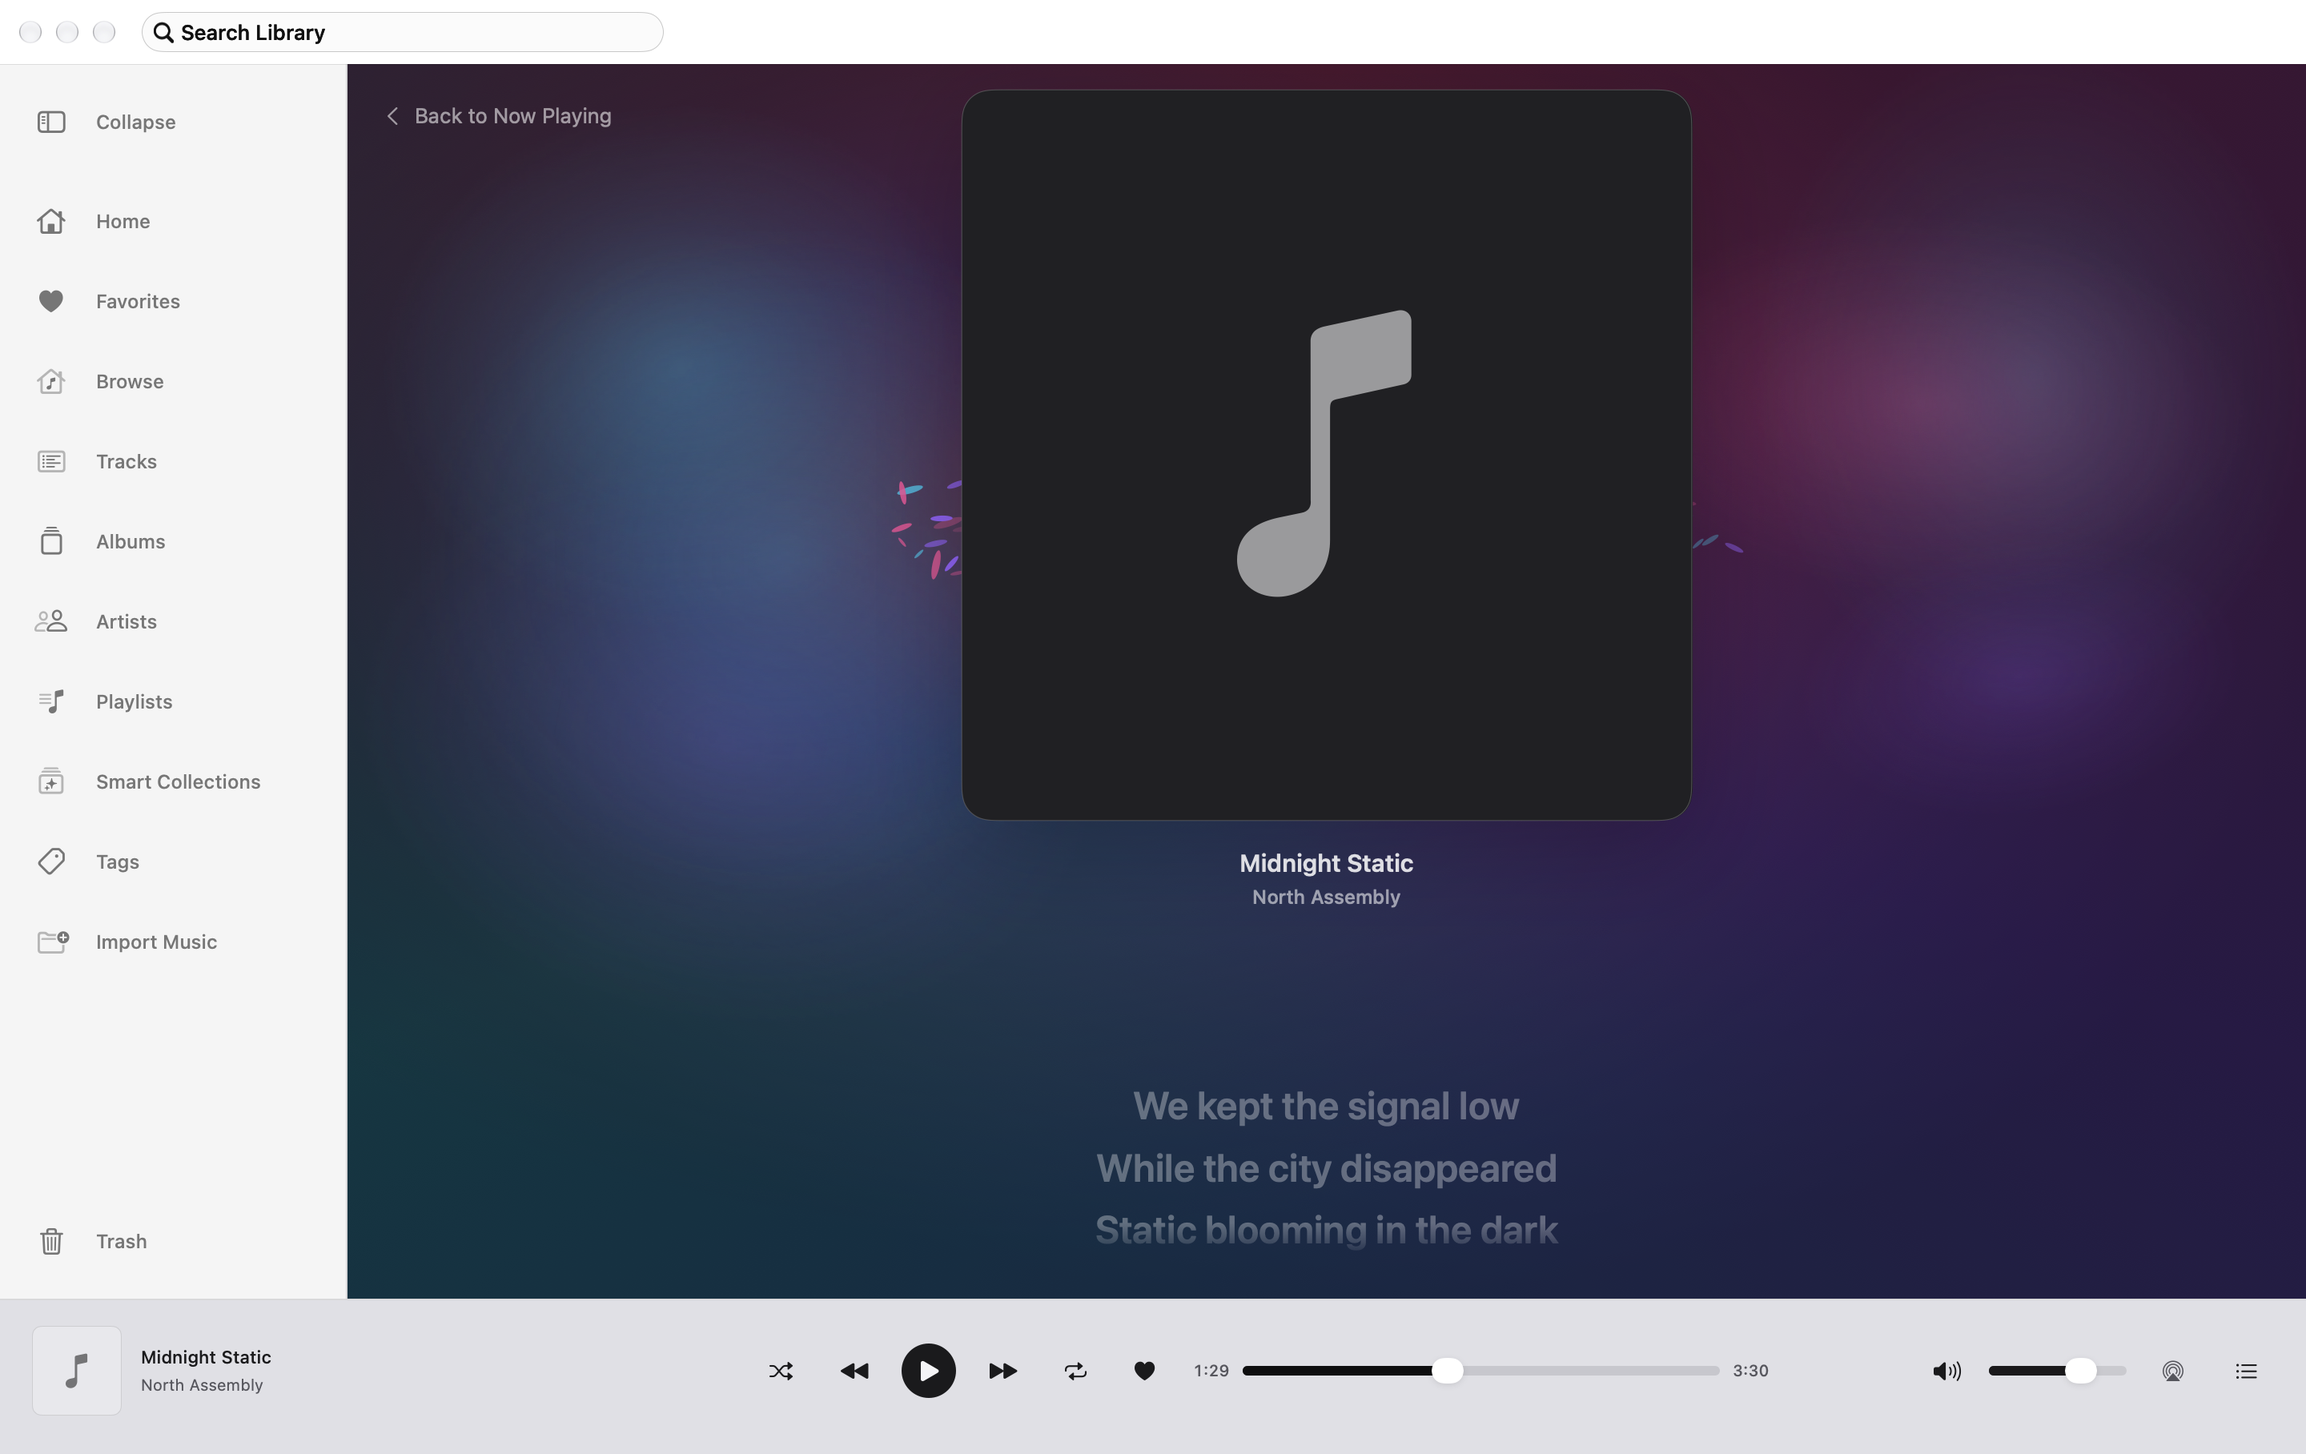
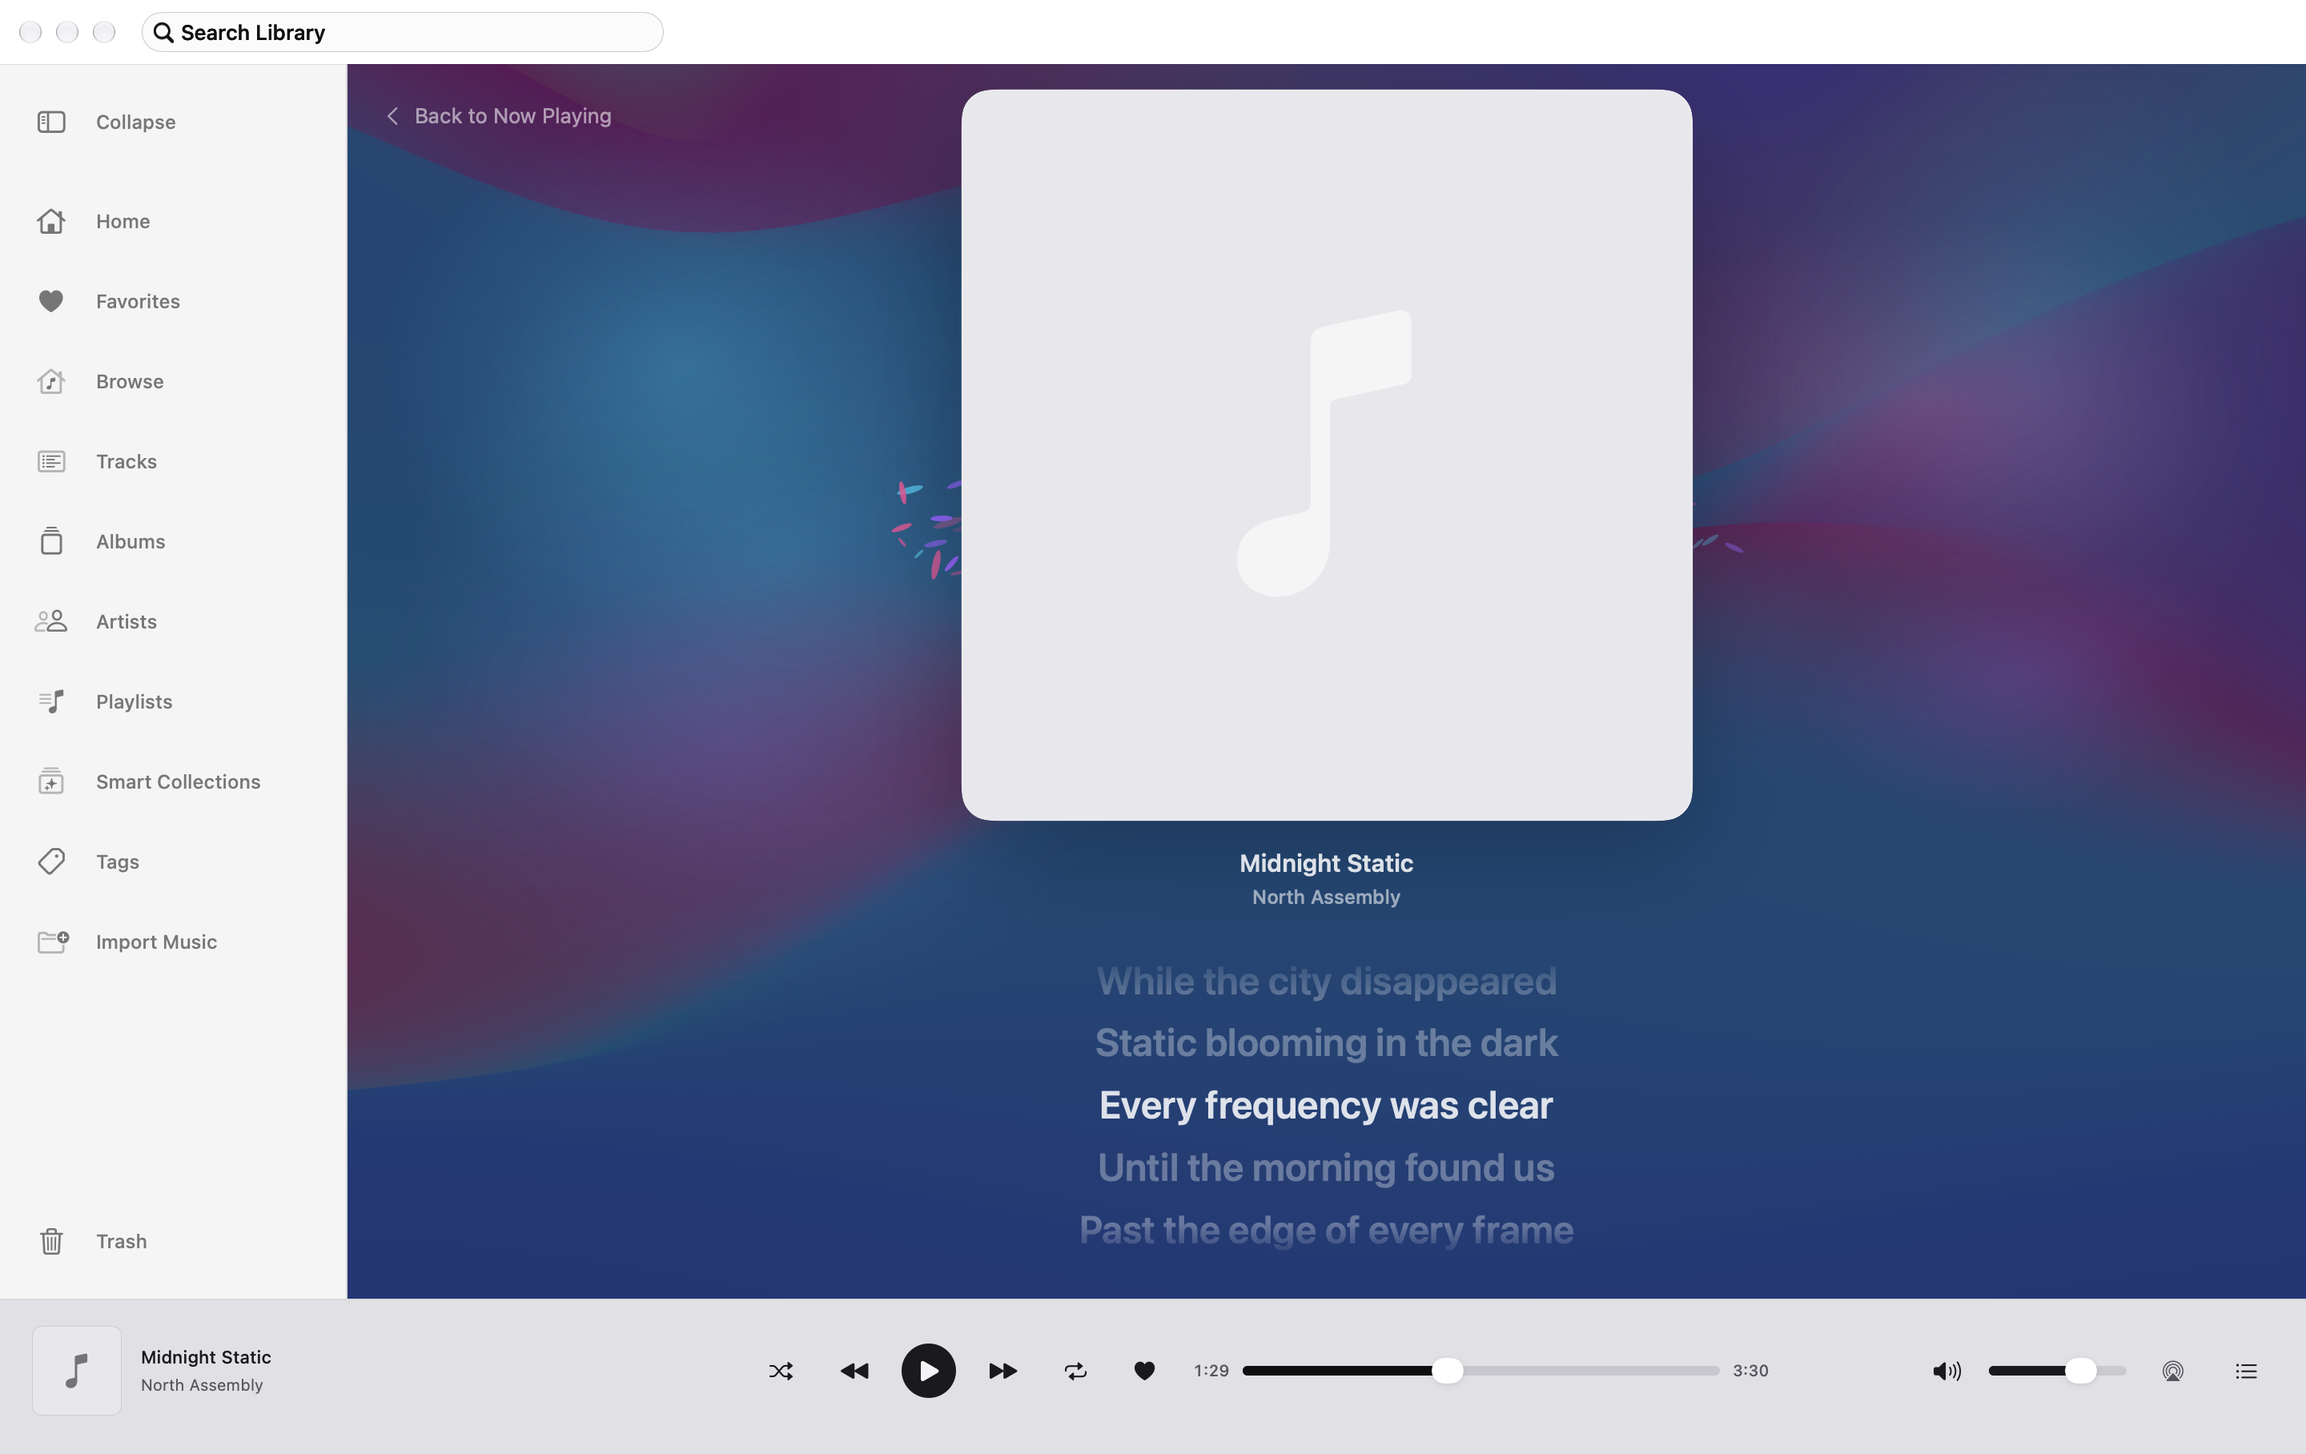
Finish shared Cadence interface adoption

diff --git a/Sources/Cadence/Features/Rhythm/CadenceModeBackground.swift b/Sources/Cadence/Features/Rhythm/CadenceModeBackground.swift
@@ -1,21 +1,86 @@
+import AppKit
+import MetalKit
 import QenTerraMediaComponents
 import SwiftUI
 
 struct CadenceModeBackground: View {
     let palette: RhythmAccentPalette
-    var hasLiveEffects = false
 
     @Environment(\.accessibilityReduceMotion) private var reduceMotion
     @Environment(\.cadenceModeVisualQABackgroundReduceMotionOverride)
     private var visualQAReduceMotionOverride
 
     var body: some View {
-        ArtworkAccentGradient(
+        GeometryReader { geometry in
+            if visualQAReduceMotionOverride == true,
+               let snapshot = makeSnapshot(size: geometry.size) {
+                Image(
+                    decorative: snapshot.image,
+                    scale: snapshot.scale
+                )
+                .resizable()
+                .interpolation(.high)
+            } else {
+                TerrainSurface(
+                    palette: palette,
+                    reduceMotion: reduceMotion
+                )
+            }
+        }
+    }
+
+    private func makeSnapshot(size: CGSize) -> (image: CGImage, scale: CGFloat)? {
+        guard size.width > 0, size.height > 0 else {
+            return nil
+        }
+        let scale = NSScreen.main?.backingScaleFactor ?? 1
+        let view = ArtworkAccentGradientView(
+            frame: CGRect(origin: .zero, size: size),
+            device: MTLCreateSystemDefaultDevice()
+        )
+        view.appliesAppearanceOverlays = false
+        view.update(
             palette: CadenceAccentGradientAdapter.palette(from: palette),
             appearance: CadenceAccentGradientAdapter.appearance(
-                palette: palette, hasLiveEffects: hasLiveEffects,
-                reduceMotion: visualQAReduceMotionOverride ?? reduceMotion
+                palette: palette,
+                hasLiveEffects: false,
+                reduceMotion: true
             )
         )
+        let pixelSize = CGSize(
+            width: size.width * scale,
+            height: size.height * scale
+        )
+        return view.makeSnapshot(size: pixelSize, time: 0).map {
+            ($0, scale)
+        }
+    }
+
+    private struct TerrainSurface: NSViewRepresentable {
+        let palette: RhythmAccentPalette
+        let reduceMotion: Bool
+
+        func makeNSView(context _: Context) -> ArtworkAccentGradientView {
+            let view = ArtworkAccentGradientView(
+                frame: .zero,
+                device: MTLCreateSystemDefaultDevice()
+            )
+            view.appliesAppearanceOverlays = false
+            return view
+        }
+
+        func updateNSView(
+            _ view: ArtworkAccentGradientView,
+            context _: Context
+        ) {
+            view.update(
+                palette: CadenceAccentGradientAdapter.palette(from: palette),
+                appearance: CadenceAccentGradientAdapter.appearance(
+                    palette: palette,
+                    hasLiveEffects: false,
+                    reduceMotion: reduceMotion
+                )
+            )
+        }
     }
 }

diff --git a/Sources/Cadence/Features/NowPlaying/ProductionNowPlayingView.swift b/Sources/Cadence/Features/NowPlaying/ProductionNowPlayingView.swift
@@ -1,3 +1,4 @@
+import QenTerraMediaComponents
 import SwiftUI
 
 final class NowPlayingReadinessObserver: Equatable, @unchecked Sendable {
@@ -64,13 +65,58 @@ struct ProductionNowPlayingView: View {
             let cadenceModeHasLiveEffects = rhythmPulseVisualQAState.map {
                 !$0.lanes.isEmpty
             } ?? cadenceModeSession.pulseStore.hasLiveEffects
+            let cadenceModeAccentPalette = CadenceAccentGradientAdapter.palette(
+                from: cadenceModePalette
+            )
+            let cadenceModeAppearance = CadenceAccentGradientAdapter.appearance(
+                palette: cadenceModePalette,
+                hasLiveEffects: cadenceModeHasLiveEffects,
+                reduceMotion: reduceMotion
+            )
+            let cadenceModePaletteAnimation: Animation? = reduceMotion
+                ? nil
+                : .easeInOut(duration: ArtworkAccentGradientTransition.duration)
 
             ZStack {
                 if isCadenceModeActive {
                     ZStack {
                         CadenceModeBackground(
-                            palette: cadenceModePalette,
-                            hasLiveEffects: cadenceModeHasLiveEffects
+                            palette: cadenceModePalette
+                        )
+                        .allowsHitTesting(false)
+                        .accessibilityHidden(true)
+
+                        Color.black.opacity(
+                            ArtworkAccentGradientTint.baseOpacity(
+                                for: cadenceModeAccentPalette
+                            )
+                        )
+                        .animation(
+                            cadenceModePaletteAnimation,
+                            value: cadenceModePalette
+                        )
+                        .allowsHitTesting(false)
+                        .accessibilityHidden(true)
+
+                        Color(
+                            red: cadenceModeAppearance.tint.color.red,
+                            green: cadenceModeAppearance.tint.color.green,
+                            blue: cadenceModeAppearance.tint.color.blue
+                        )
+                        .blendMode(.multiply)
+                        .opacity(cadenceModeAppearance.tint.amount)
+                        .animation(
+                            reduceMotion
+                                ? nil
+                                : .easeInOut(
+                                    duration: cadenceModeAppearance.tint
+                                        .transitionDuration
+                                ),
+                            value: cadenceModeHasLiveEffects
+                        )
+                        .animation(
+                            cadenceModePaletteAnimation,
+                            value: cadenceModePalette
                         )
                         .allowsHitTesting(false)
                         .accessibilityHidden(true)

diff --git a/Tests/CadenceTests/DocumentationScreenshotSupport.swift b/Tests/CadenceTests/DocumentationScreenshotSupport.swift
@@ -206,6 +206,7 @@ final class DocumentationScreenshotFixture {
         let rootView = preparedRootView(
             rootView,
             contentSize: contentSize,
+            appearance: appearance.cadenceAppearance,
             rhythmPulseVisualQAState: rhythmPulseVisualQAState
         )
 
@@ -229,7 +230,14 @@ final class DocumentationScreenshotFixture {
         hostingView.layoutSubtreeIfNeeded()
         hostingView.displayIfNeeded()
         await Task.yield()
-        let data = try pngData(for: window)
+        let data = if rhythmPulseVisualQAState == nil {
+            try pngData(for: window)
+        } else {
+            try await settledPNGData(
+                for: window,
+                hostingView: hostingView
+            )
+        }
         if recordsOnly {
             Attachment.record([UInt8](data), named: filename)
         } else {
@@ -268,10 +276,14 @@ final class DocumentationScreenshotFixture {
     private func preparedRootView(
         _ rootView: some View,
         contentSize: NSSize,
+        appearance: CadenceAppearance,
         rhythmPulseVisualQAState: RhythmPulseVisualQAState?
     ) -> some View {
         rootView
             .frame(width: contentSize.width, height: contentSize.height)
+            .designSystem(
+                CadenceDesignSystemEnvironment.configuration(for: appearance)
+            )
             .transaction { transaction in
                 transaction.animation = nil
                 transaction.disablesAnimations = true
@@ -279,6 +291,10 @@ final class DocumentationScreenshotFixture {
             .environment(
                 \.rhythmPulseVisualQAState,
                 rhythmPulseVisualQAState
+            )
+            .environment(
+                \.cadenceModeVisualQABackgroundReduceMotionOverride,
+                rhythmPulseVisualQAState == nil ? nil : true
             )
             .environment(
                 \.albumDetailReadinessObserver,
@@ -327,6 +343,24 @@ final class DocumentationScreenshotFixture {
             throw DocumentationScreenshotError.encodingFailed
         }
         return data
+    }
+
+    private func settledPNGData(
+        for window: NSWindow,
+        hostingView: NSView
+    ) async throws -> Data {
+        var previous = try pngData(for: window)
+        for _ in 0 ..< 20 {
+            try await Task.sleep(for: .milliseconds(50))
+            hostingView.layoutSubtreeIfNeeded()
+            hostingView.displayIfNeeded()
+            let current = try pngData(for: window)
+            if current == previous {
+                return current
+            }
+            previous = current
+        }
+        return previous
     }
 }
 

diff --git a/Sources/Cadence/Components/PlayerBar.swift b/Sources/Cadence/Components/PlayerBar.swift
@@ -1,9 +1,14 @@
+import QenTerraDesignTokens
 import QenTerraMediaComponents
 import SwiftUI
 
 struct PlayerBar: View {
     @Environment(\.visualRegressionUsesStableSystemControls)
     var usesStableSystemControls
+    @Environment(\.accessibilityReduceMotion) private var reduceMotion
+    @Environment(\.accessibilityReduceTransparency) private var reduceTransparency
+    @Environment(\.colorScheme) private var colorScheme
+    @Environment(\.colorSchemeContrast) private var colorSchemeContrast
     @Bindable var model: CadenceAppModel
     let suspendsProgressAnimation: Bool
     @AppStorage(CadencePreferences.Keys.playbackTimeDisplay)
@@ -20,6 +25,18 @@ struct PlayerBar: View {
                 }
             }
         }
+        .environment(
+            \.designNativeEnvironment,
+            DesignNativeEnvironment(
+                appearance: colorScheme == .dark ? .dark : .light,
+                productProfile: .cadence,
+                density: .standard,
+                isIncreasedContrast: colorSchemeContrast == .increased,
+                reducesMotion: reduceMotion,
+                reducesTransparency: reduceTransparency
+                    || usesStableSystemControls
+            )
+        )
         .onChange(of: model.currentPlaybackTrack?.id, initial: true) { _, itemID in
             pendingSeek.updateCurrentItem(itemID)
         }

diff --git a/Tests/CadenceTests/CadenceTrackTableAdapterTests.swift b/Tests/CadenceTests/CadenceTrackTableAdapterTests.swift
@@ -32,6 +32,7 @@ struct CadenceTrackTableAdapterTests {
         let typography = CadenceTrackTableAdapter.typography(.large)
         #expect(typography.primaryPointSize == 15 && typography.secondaryPointSize == 14)
         #expect(typography.badgeRole.size == 9 && typography.badgeRole.weight == 700)
+        #expect(typography.durationRole.weight == 400)
         #expect(CadenceTrackTableAdapter.columns([.album, .time]) == [.collection, .duration])
     }
 }

diff --git a/Sources/Cadence/DesignSystem/CadenceTrackTableAdapter.swift b/Sources/Cadence/DesignSystem/CadenceTrackTableAdapter.swift
@@ -38,7 +38,8 @@ enum CadenceTrackTableAdapter {
         MediaTableTypography(
             primaryPointSize: size.nativePrimaryPointSize,
             secondaryPointSize: size.nativeSecondaryPointSize,
-            badgeRole: DesignTokens.Typography.mediaExplicitBadge
+            badgeRole: DesignTokens.Typography.mediaExplicitBadge,
+            durationRole: DesignTokens.Typography.row
         )
     }
 

diff --git a/Tests/CadenceTests/DesignSystemCompatibilityTests.swift b/Tests/CadenceTests/DesignSystemCompatibilityTests.swift
@@ -6,9 +6,9 @@ import QenTerraMediaComponents
 import SwiftUI
 import Testing
 
+@MainActor
 struct DesignSystemCompatibilityTests {
     @Test("Cadence constructs the shared value contracts used by its adapters")
-    @MainActor
     func cadenceBuildsAgainstSharedValueContracts() {
         let configuration = DesignSystemConfiguration(
             appearance: .system,

diff --git a/Sources/Cadence/Components/FavoriteButton.swift b/Sources/Cadence/Components/FavoriteButton.swift
@@ -121,6 +121,7 @@ struct FavoriteButton: View {
         ) { _ in
             updateFavorite()
         }
+        .tint(CadenceTheme.primaryAccent)
         .onChange(of: itemID) {
             transientState.reconcile(itemID: itemID)
         }

diff --git a/Tests/ReleaseContractTests/test_ui_component_ownership.py b/Tests/ReleaseContractTests/test_ui_component_ownership.py
@@ -742,7 +742,7 @@ class UIComponentOwnershipTests(unittest.TestCase):
 
         self.assertFalse(any(item["symbol"] == "CadenceModeGradientRenderer" for item in manifest["components"]))
         background = next(item for item in manifest["components"] if item["symbol"] == "CadenceModeBackground")
-        self.assertEqual("ArtworkAccentGradient", background["sharedTarget"]["publicSymbol"])
+        self.assertEqual("ArtworkAccentGradientView", background["sharedTarget"]["publicSymbol"])
         background_data = {entry["symbol"] for entry in background["dependencies"]["data"]}
         self.assertEqual({"palette", "hasLiveEffects", "reduceMotion", "visualQAReduceMotionOverride"}, background_data)
         self.assertFalse({"device", "commandQueue", "snapshotPipelineState"} & background_data)

diff --git a/Tests/ReleaseContractTests/test_release_provenance.py b/Tests/ReleaseContractTests/test_release_provenance.py
@@ -1604,6 +1604,11 @@ class ReleasePreparationOrderingTests(unittest.TestCase):
             ROOT / "scripts" / "swiftlint-warning-baseline.json",
             self.scripts,
         )
+        (self.scripts / "verify_ui_component_ownership.py").write_text(
+            "#!/usr/bin/env python3\n",
+            encoding="utf-8",
+        )
+        (self.scripts / "verify_ui_component_ownership.py").chmod(0o755)
         release_directory = self.root / "release"
         release_directory.mkdir()
         self.notes = release_directory / "release-notes-9.8.7-test.1.md"
